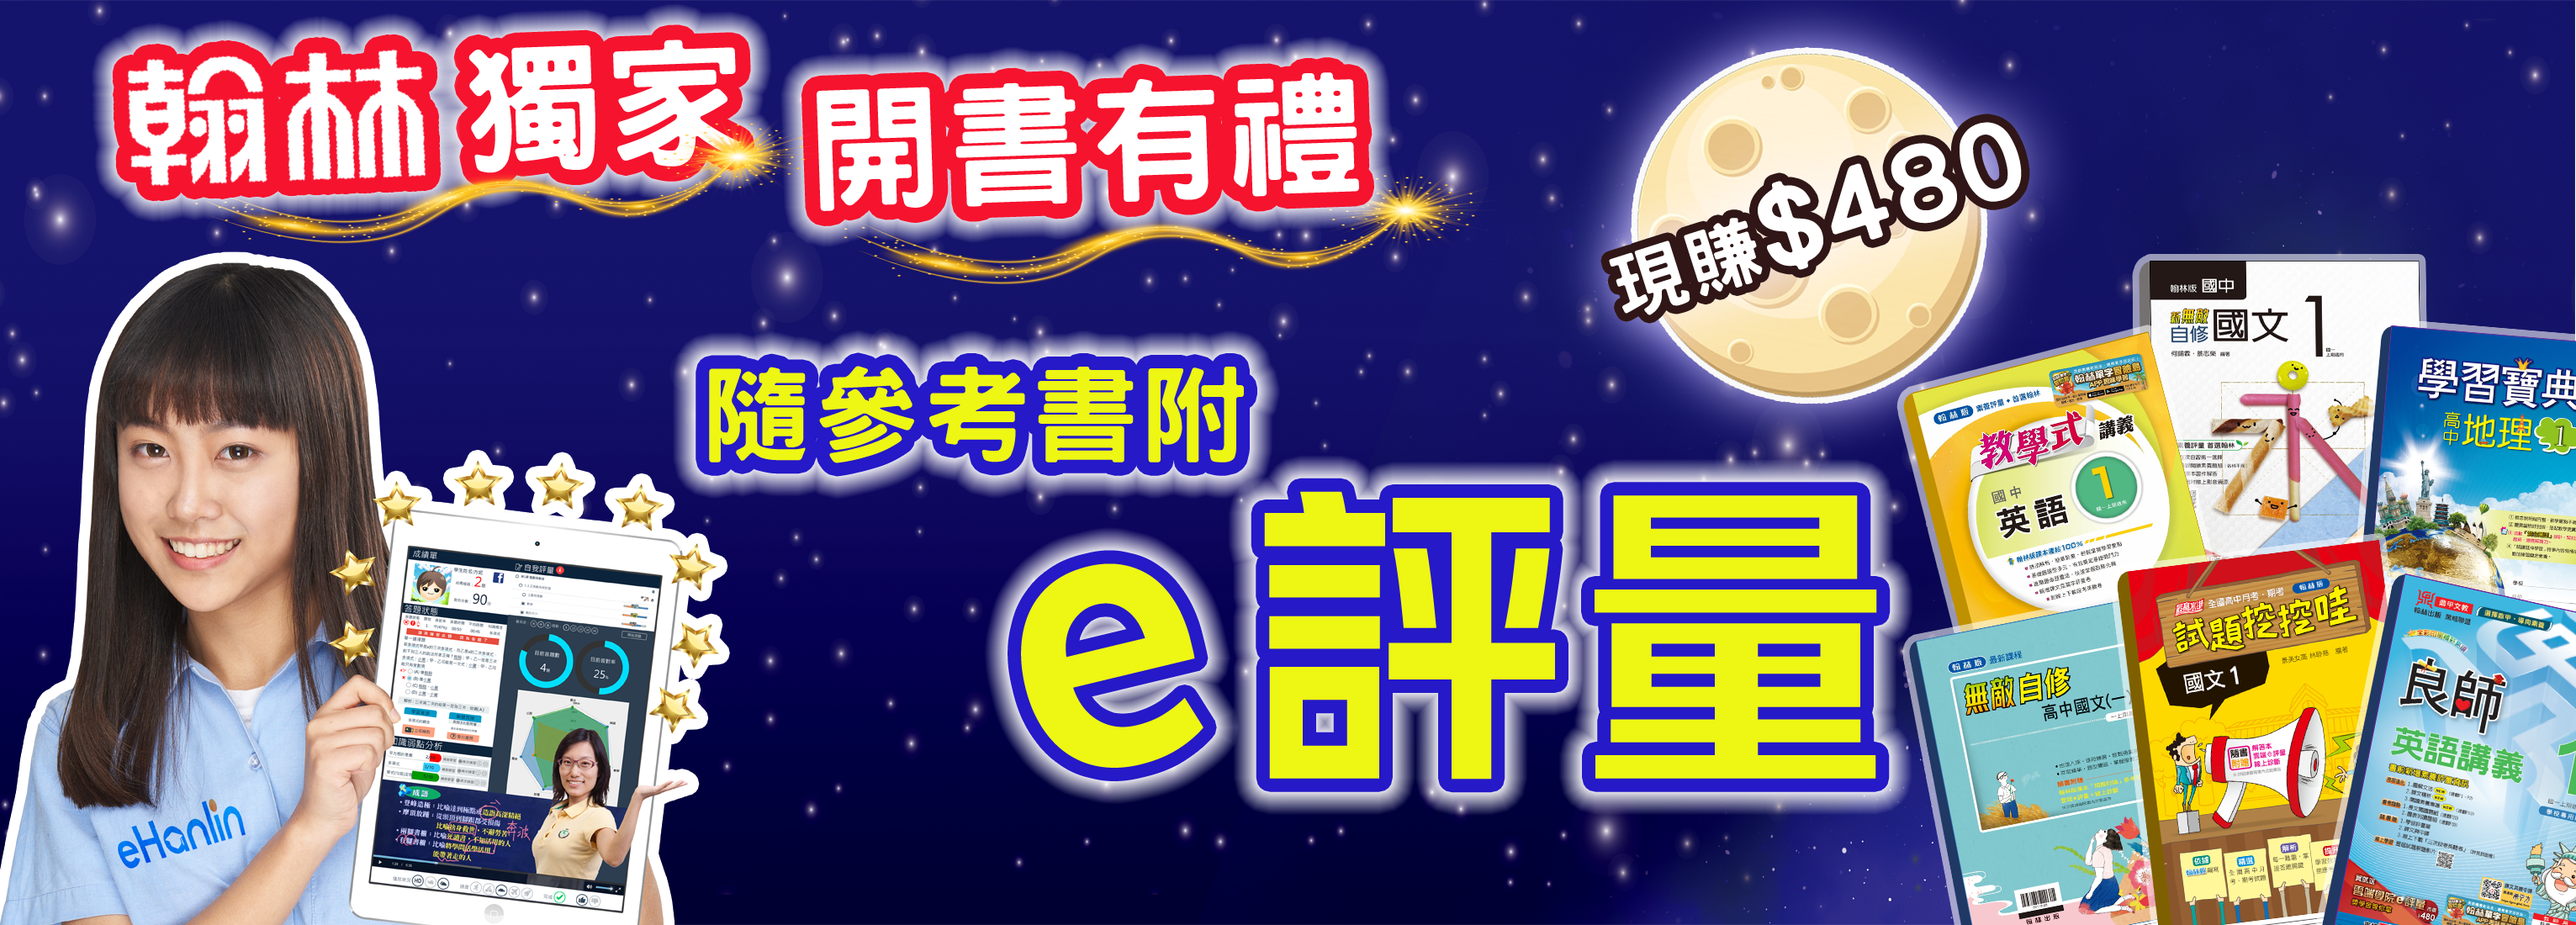
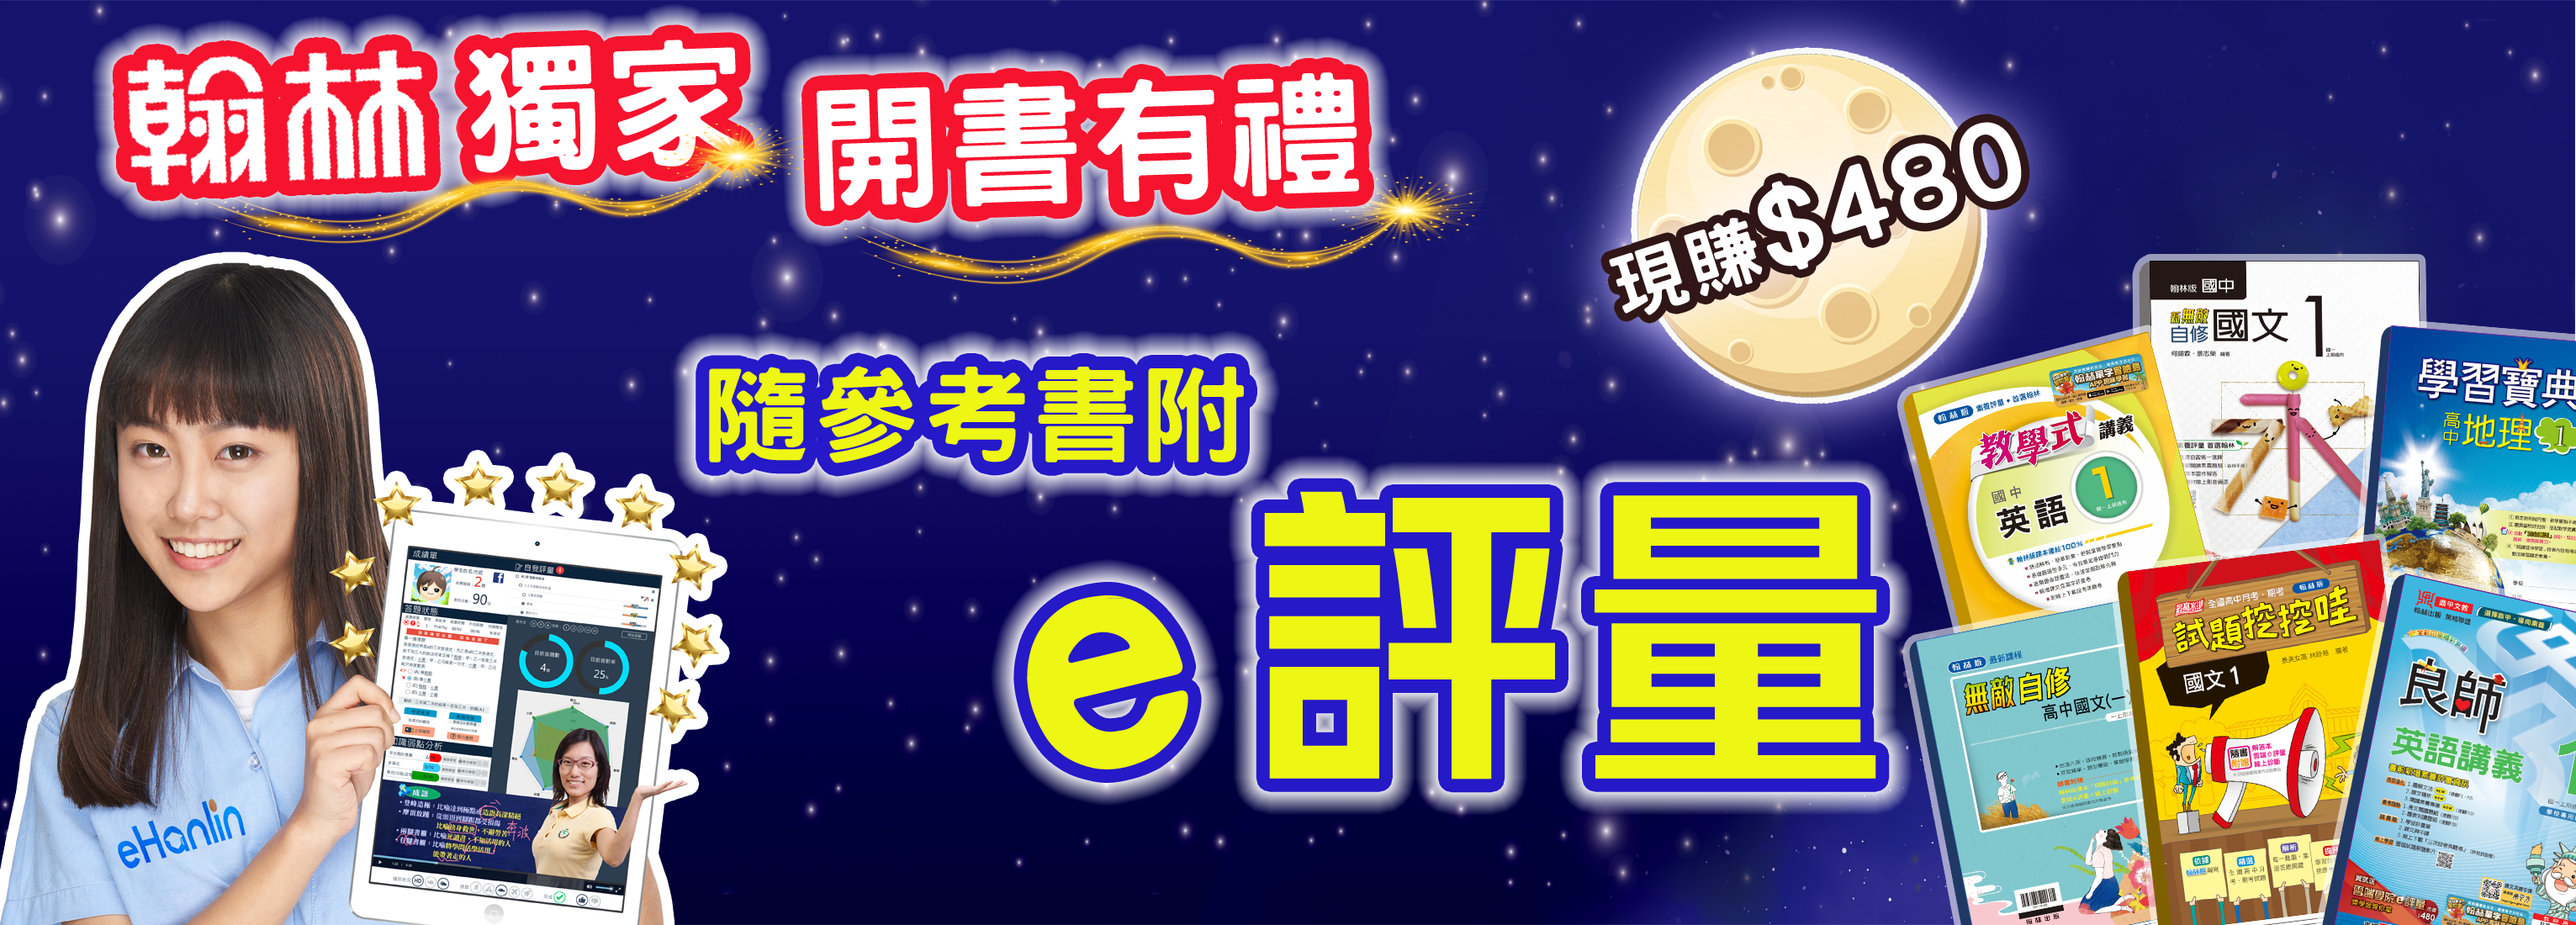
調整功能：更換圖片

Changed region(s): [[0.3722, 0.5564, 0.4962, 0.8655]]

diff --git a/dist/css/event_jhsep106.css b/dist/css/event_jhsep106.css
@@ -118,7 +118,7 @@ img.banner {
   width: 177px;
   position: absolute;
   margin: auto;
-  bottom: 15px;
+  bottom: 100px;
   left: 0;
   right: 0;
 }

diff --git a/src/css/event_jhsep106.css b/src/css/event_jhsep106.css
@@ -118,7 +118,7 @@ img.banner {
   width: 177px;
   position: absolute;
   margin: auto;
-  bottom: 15px;
+  bottom: 100px;
   left: 0;
   right: 0;
 }
